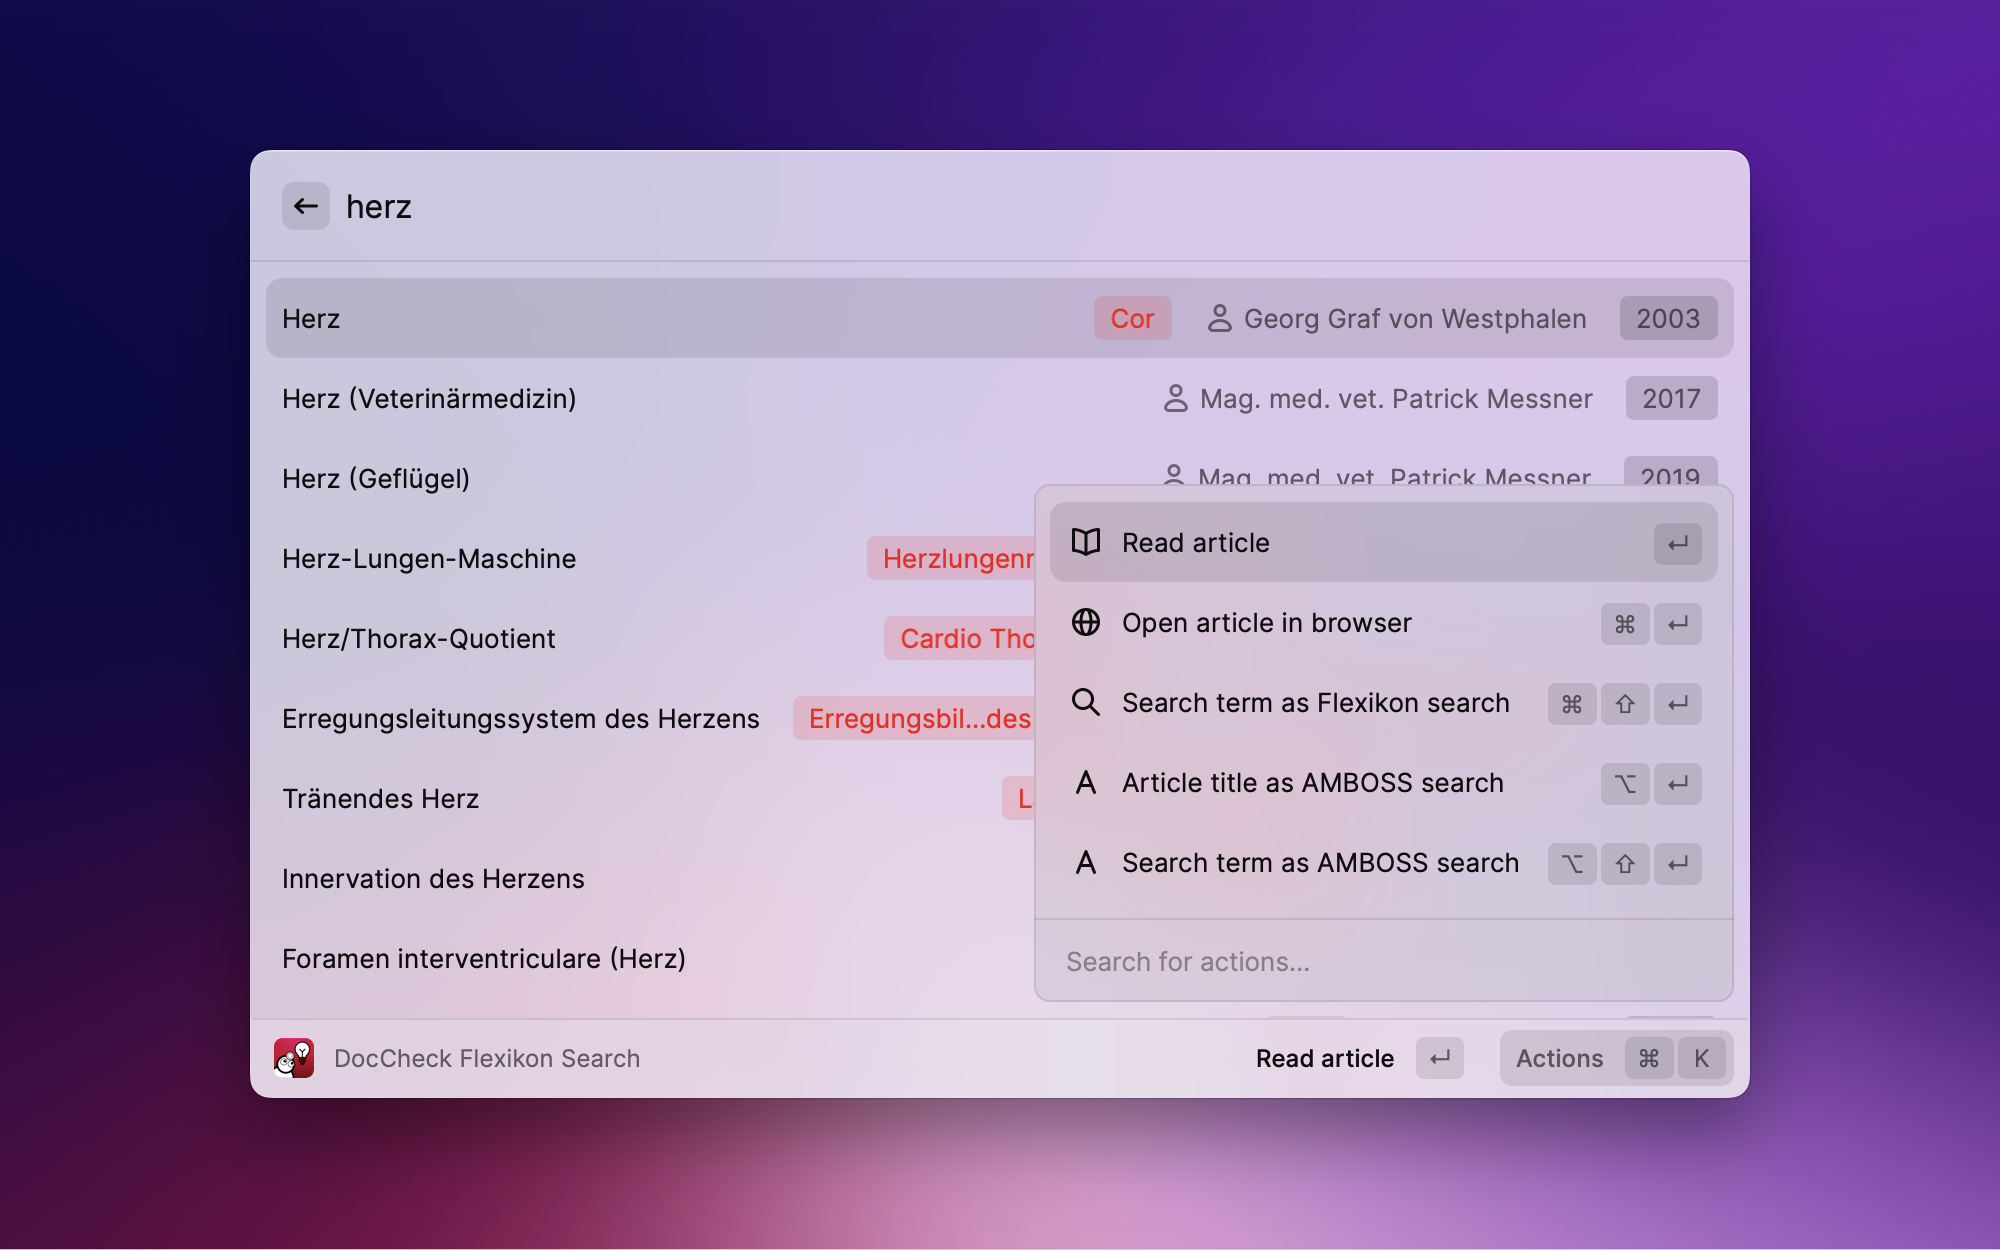
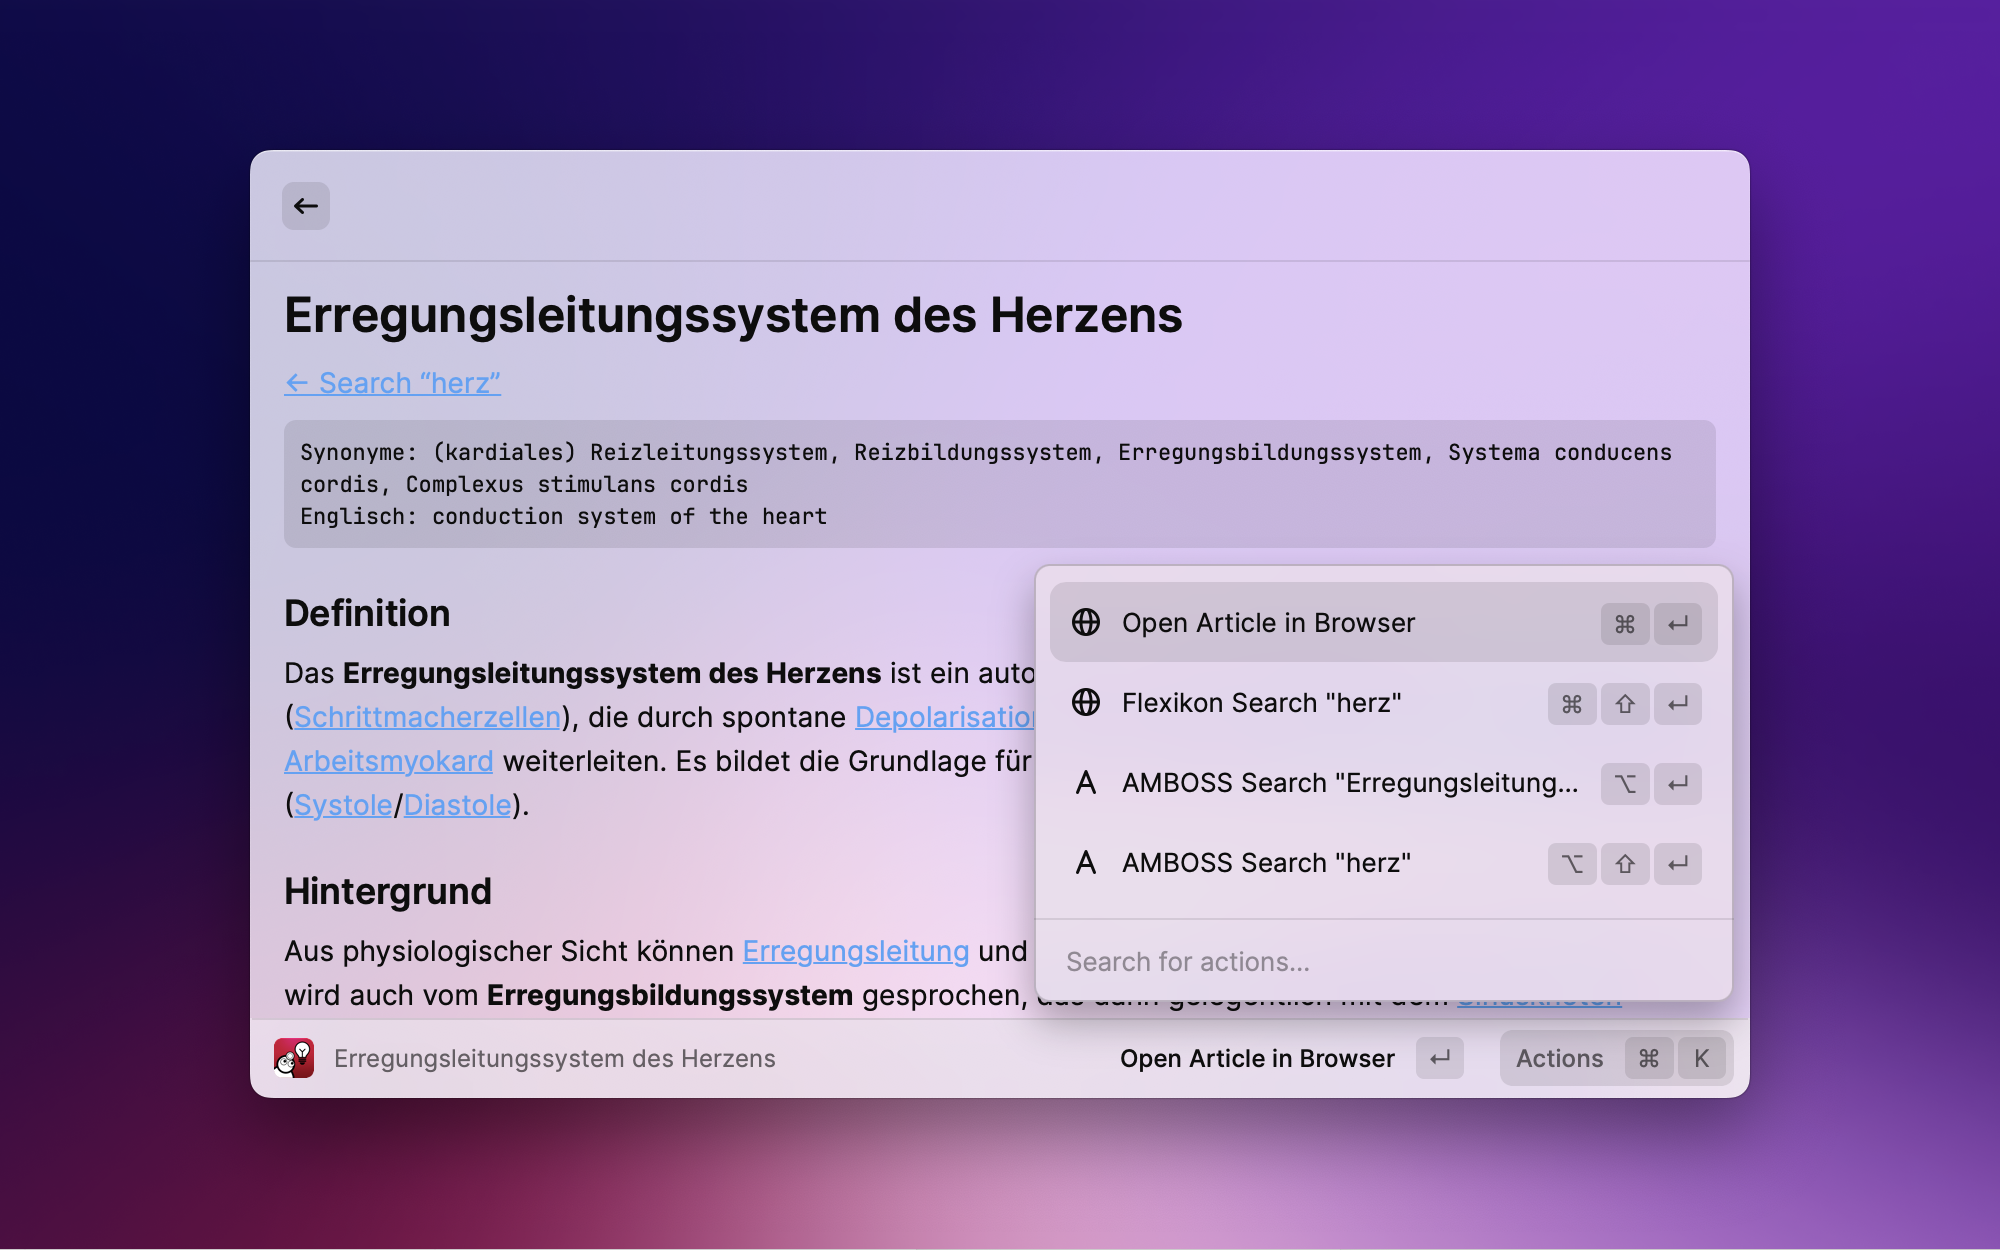
Version 1.4

diff --git a/src/doccheck-flexikon.tsx b/src/doccheck-flexikon.tsx
@@ -31,7 +31,7 @@ export default function Command(props: LaunchProps) {
         {
           title: "AMBOSS",
           url: "https://next.amboss.com/de/search?q=",
-          description: "Press ⏎ to search for the search term in AMBOSS in the browser",
+          description: `Press ⏎ to search for "` + query + `" on AMBOSS`,
           title_alias: [],
           imageUrl: "",
           date_publish: "",
@@ -40,7 +40,7 @@ export default function Command(props: LaunchProps) {
         {
           title: "Google",
           url: "https://www.google.com/search?q=",
-          description: "Press ⏎ to search for the search term in Google in the browser",
+          description: `Press ⏎ to search for "` + query + `" on Google`,
           title_alias: [],
           imageUrl: "",
           date_publish: "",
@@ -49,7 +49,7 @@ export default function Command(props: LaunchProps) {
         {
           title: "Wikipedia",
           url: "https://en.wikipedia.org/w/index.php?search=",
-          description: "Press ⏎ to search for the search term in Wikipedia in the browser",
+          description: `Press ⏎ to search for "` + query + `" on Wikipedia`,
           title_alias: [],
           imageUrl: "",
           date_publish: "",
@@ -58,7 +58,7 @@ export default function Command(props: LaunchProps) {
         {
           title: "Wikipedia DE",
           url: "https://de.wikipedia.org/w/index.php?search=",
-          description: "Press ⏎ to search for the search term in the German Wikipedia in the browser",
+          description: `Press ⏎ to search for "` + query + `" on the German Wikipedia`,
           title_alias: [],
           imageUrl: "",
           date_publish: "",
@@ -188,12 +188,12 @@ export default function Command(props: LaunchProps) {
                     <ActionPanel>
                       <Action.Open
                         icon={Icon.Uppercase}
-                        title={"Search Term as " + entry.title + " Search"}
+                        title={`Search "` + query + `" on ` + entry.title}
                         target={entry.url + encodeURI(query)}
                       />
                       <Action.Open
                         icon={Icon.MagnifyingGlass}
-                        title="Search Term as Flexikon Search"
+                        title={`Search "` + query + `" on DocCheck`}
                         target={"https://www.doccheck.com/search?q=" + encodeURI(query)}
                         shortcut={{ modifiers: ["cmd", "shift"], key: "enter" }}
                       />
@@ -310,37 +310,61 @@ export default function Command(props: LaunchProps) {
 }
 
 function EntryActions(url: string, title: string, query: string) {
-  return (
-    <ActionPanel>
-      <Action.Push
-        icon={Icon.Book}
-        title="Read Article"
-        target={<DocCheckPage url={url} prevurl={""} query={query} />}
-      />
-      <Action.Open
-        icon={Icon.Globe}
-        title="Open Article in Browser"
-        target={url}
-        shortcut={{ modifiers: ["cmd"], key: "enter" }}
-      />
-      <Action.Open
-        icon={Icon.MagnifyingGlass}
-        title="Search Term as Flexikon Search"
-        target={"https://www.doccheck.com/search?q=" + encodeURI(query)}
-        shortcut={{ modifiers: ["cmd", "shift"], key: "enter" }}
-      />
-      <Action.Open
-        icon={Icon.Uppercase}
-        title="Article Title as AMBOSS Search"
-        target={"https://next.amboss.com/de/search?q=" + encodeURI(title) + "&v=overview"}
-        shortcut={{ modifiers: ["opt"], key: "enter" }}
-      />
-      <Action.Open
-        icon={Icon.Uppercase}
-        title="Search Term as AMBOSS Search"
-        target={"https://next.amboss.com/de/search?q=" + encodeURI(query) + "&v=overview"}
-        shortcut={{ modifiers: ["opt", "shift"], key: "enter" }}
-      />
-    </ActionPanel>
-  );
+  if (query) {
+    return (
+      <ActionPanel>
+        <Action.Push
+          icon={Icon.Book}
+          title="Read Article"
+          target={<DocCheckPage url={url} prevurl={""} query={query} />}
+        />
+        <Action.Open
+          icon={Icon.Globe}
+          title="Open Article in Browser"
+          target={url}
+          shortcut={{ modifiers: ["cmd"], key: "enter" }}
+        />
+        <Action.Open
+          icon={Icon.Globe}
+          title={`Flexikon Search "` + query + `"`}
+          target={"https://www.doccheck.com/search?q=" + encodeURI(query) + "&facetq=content_type:flexikon"}
+          shortcut={{ modifiers: ["cmd", "shift"], key: "enter" }}
+        />
+        <Action.Open
+          icon={Icon.Uppercase}
+          title={`AMBOSS Search "` + title + `"`}
+          target={"https://next.amboss.com/de/search?q=" + encodeURI(title) + "&v=overview"}
+          shortcut={{ modifiers: ["opt"], key: "enter" }}
+        />
+        <Action.Open
+          icon={Icon.Uppercase}
+          title={`AMBOSS Search "` + query + `"`}
+          target={"https://next.amboss.com/de/search?q=" + encodeURI(query) + "&v=overview"}
+          shortcut={{ modifiers: ["opt", "shift"], key: "enter" }}
+        />
+      </ActionPanel>
+    );
+  } else {
+    return (
+      <ActionPanel>
+        <Action.Push
+          icon={Icon.Book}
+          title="Read Article"
+          target={<DocCheckPage url={url} prevurl={""} query={query} />}
+        />
+        <Action.Open
+          icon={Icon.Globe}
+          title="Open Article in Browser"
+          target={url}
+          shortcut={{ modifiers: ["cmd"], key: "enter" }}
+        />
+        <Action.Open
+          icon={Icon.Uppercase}
+          title={`AMBOSS Search "` + title + `"`}
+          target={"https://next.amboss.com/de/search?q=" + encodeURI(title) + "&v=overview"}
+          shortcut={{ modifiers: ["opt"], key: "enter" }}
+        />
+      </ActionPanel>
+    );
+  }
 }

diff --git a/src/doccheck-page.tsx b/src/doccheck-page.tsx
@@ -125,40 +125,91 @@ export default function DocCheckPage(props: { url: string; prevurl: string; quer
       )
       .replace(/\s{94}\|\n/gm, `\n`); // HEADING + ``SYNONYMS`` -TOC + ARTICLE (removal of anchors, relative to absolute links, putting a dot in the empty start line when calculating "Relatives Risiko" and "Odds Ratio" for correct display, removal of some table ends like DDx in "Scharlach")
 
-  return (
-    <Detail
-      navigationTitle={urlTitle}
-      isLoading={isLoading}
-      markdown={
-        preferences.openIn === "browser"
-          ? markdown.replace(/]\(\//gm, "](https://flexikon.doccheck.com/")
-          : markdown.replace(/\[(.*?)\]\((\/.*?) "(.*?)"\)/g, function (match, p1, p2, p3) {
-              const url = "https://flexikon.doccheck.com" + p2;
-              const args = {
-                url: url,
-                prevurl: props.url,
-                query: props.query,
-              };
-              const query = encodeURIComponent(JSON.stringify(args));
-              return "[" + p1 + "](raycast://extensions/spacedog/doccheck/open-page?arguments=" + query + ")";
-            })
-      }
-      actions={
-        <ActionPanel>
-          <Action.Open
-            icon={Icon.Globe}
-            title="Open Article in Browser"
-            target={props.url}
-            shortcut={{ modifiers: ["cmd"], key: "enter" }}
-          />
-          <Action.Open
-            icon={Icon.Uppercase}
-            title="Article Title as AMBOSS Search"
-            target={"https://next.amboss.com/de/search?q=" + encodeURI(urlTitle) + "&v=overview"}
-            shortcut={{ modifiers: ["opt"], key: "enter" }}
-          />
-        </ActionPanel>
-      }
-    />
-  );
+  if (query) {
+    return (
+      <Detail
+        navigationTitle={urlTitle}
+        isLoading={isLoading}
+        markdown={
+          preferences.openIn === "browser"
+            ? markdown.replace(/]\(\//gm, "](https://flexikon.doccheck.com/")
+            : markdown.replace(/\[(.*?)\]\((\/.*?) "(.*?)"\)/g, function (match, p1, p2, p3) {
+                const url = "https://flexikon.doccheck.com" + p2;
+                const args = {
+                  url: url,
+                  prevurl: props.url,
+                  query: props.query,
+                };
+                const query = encodeURIComponent(JSON.stringify(args));
+                return "[" + p1 + "](raycast://extensions/spacedog/doccheck/open-page?arguments=" + query + ")";
+              })
+        }
+        actions={
+          <ActionPanel>
+            <Action.Open
+              icon={Icon.Globe}
+              title="Open Article in Browser"
+              target={props.url}
+              shortcut={{ modifiers: ["cmd"], key: "enter" }}
+            />
+            <Action.Open
+              icon={Icon.Globe}
+              title={`Flexikon Search "` + query + `"`}
+              target={"https://www.doccheck.com/search?q=" + encodeURI(query) + "&facetq=content_type:flexikon"}
+              shortcut={{ modifiers: ["cmd", "shift"], key: "enter" }}
+            />
+            <Action.Open
+              icon={Icon.Uppercase}
+              title={`AMBOSS Search "` + urlTitle + `"`}
+              target={"https://next.amboss.com/de/search?q=" + encodeURI(urlTitle) + "&v=overview"}
+              shortcut={{ modifiers: ["opt"], key: "enter" }}
+            />
+            <Action.Open
+              icon={Icon.Uppercase}
+              title={`AMBOSS Search "` + query + `"`}
+              target={"https://next.amboss.com/de/search?q=" + encodeURI(query) + "&v=overview"}
+              shortcut={{ modifiers: ["opt", "shift"], key: "enter" }}
+            />
+          </ActionPanel>
+        }
+      />
+    );
+  } else {
+    return (
+      <Detail
+        navigationTitle={urlTitle}
+        isLoading={isLoading}
+        markdown={
+          preferences.openIn === "browser"
+            ? markdown.replace(/]\(\//gm, "](https://flexikon.doccheck.com/")
+            : markdown.replace(/\[(.*?)\]\((\/.*?) "(.*?)"\)/g, function (match, p1, p2, p3) {
+                const url = "https://flexikon.doccheck.com" + p2;
+                const args = {
+                  url: url,
+                  prevurl: props.url,
+                  query: props.query,
+                };
+                const query = encodeURIComponent(JSON.stringify(args));
+                return "[" + p1 + "](raycast://extensions/spacedog/doccheck/open-page?arguments=" + query + ")";
+              })
+        }
+        actions={
+          <ActionPanel>
+            <Action.Open
+              icon={Icon.Globe}
+              title="Open Article in Browser"
+              target={props.url}
+              shortcut={{ modifiers: ["cmd"], key: "enter" }}
+            />
+            <Action.Open
+              icon={Icon.Uppercase}
+              title={`AMBOSS Search "` + urlTitle + `"`}
+              target={"https://next.amboss.com/de/search?q=" + encodeURI(urlTitle) + "&v=overview"}
+              shortcut={{ modifiers: ["opt"], key: "enter" }}
+            />
+          </ActionPanel>
+        }
+      />
+    );
+  }
 }

diff --git a/CHANGELOG.md b/CHANGELOG.md
@@ -1,8 +1,15 @@
 # DocCheck Changelog
 
+## [Version 1.4] - 2023-05-28
+
+- NEW: added actions to search the original search term when viewing an article
+- Fix: show search term actions only when there is a query
+- Fix: show the actual search or article term for each action
+- Fix: search only the Flexikon (and not whole DocCheck) when using the "Flexikon Search" action (except for when nothing is found on Flexikon)
+
 ## [Version 1.3.3] - 2023-05-27
 
-- NEW: embedded trinket code is now shown as embedded link 
+- NEW: embedded trinket code is now shown as embedded link
 - Fix: embedded YouTube videos are now shown as the original embedded link (doesn't look so sleek on the page, but there are no ads)
 
 ## [Version 1.3.2] - 2023-05-26
